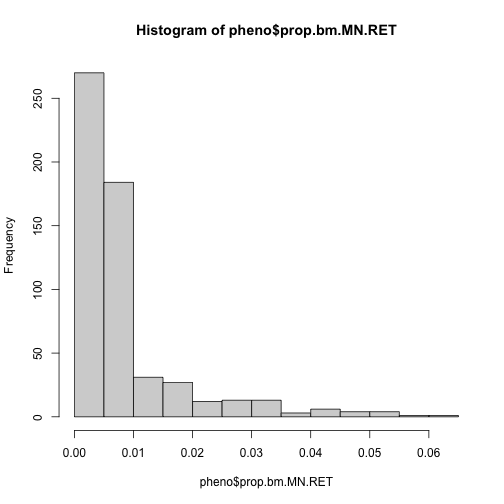
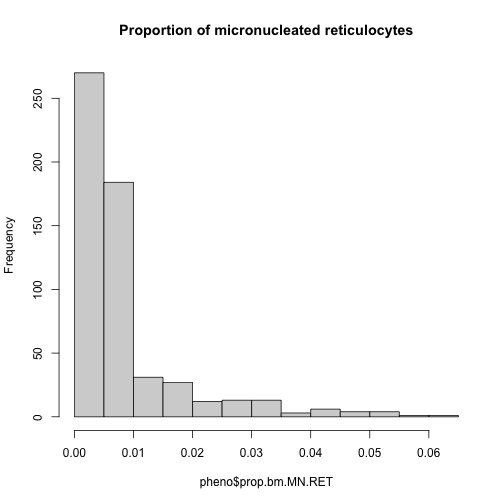
fix plots

Changed region(s): [[0.2381, 0.0298, 0.8333, 0.0893]]

diff --git a/_episodes/13-qtl-in-do.md b/_episodes/13-qtl-in-do.md
@@ -71,7 +71,7 @@ Many statistical models, including the QTL mapping model in qtl2, expect that th
 
 
 ~~~
-hist(pheno$prop.bm.MN.RET)
+hist(pheno$prop.bm.MN.RET, main = "Proportion of micronucleated reticulocytes")
 ~~~
 {: .r}
 
@@ -89,7 +89,7 @@ Now, let's make a histogram of the log-transformed data.
 
 
 ~~~
-hist(pheno$log.MN.RET)
+hist(pheno$log.MN.RET, main = "Proportion of micronucleated reticulocytes (log-transformed)")
 ~~~
 {: .r}
 
@@ -193,7 +193,7 @@ The code above copies the `rownames(pheno)` to `rownames(addcovar)` as a side-ef
 
 ### [Performing a genome scan](https://smcclatchy.github.io/mapping/06-perform-genome-scan/)  
 
-Before we run the mapping function, let's look at the mapping model. At each marker on the genotyping array, we will fit a model that regresses the phenotype (micronucleated reticulocytess) on covariates and the founder allele proportions.  
+Before we run the mapping function, let's look at the mapping model. At each marker on the genotyping array, we will fit a model that regresses the phenotype (micronucleated reticulocytes) on covariates and the founder allele proportions.  
 
 ![](../fig/equation1.png)
 
